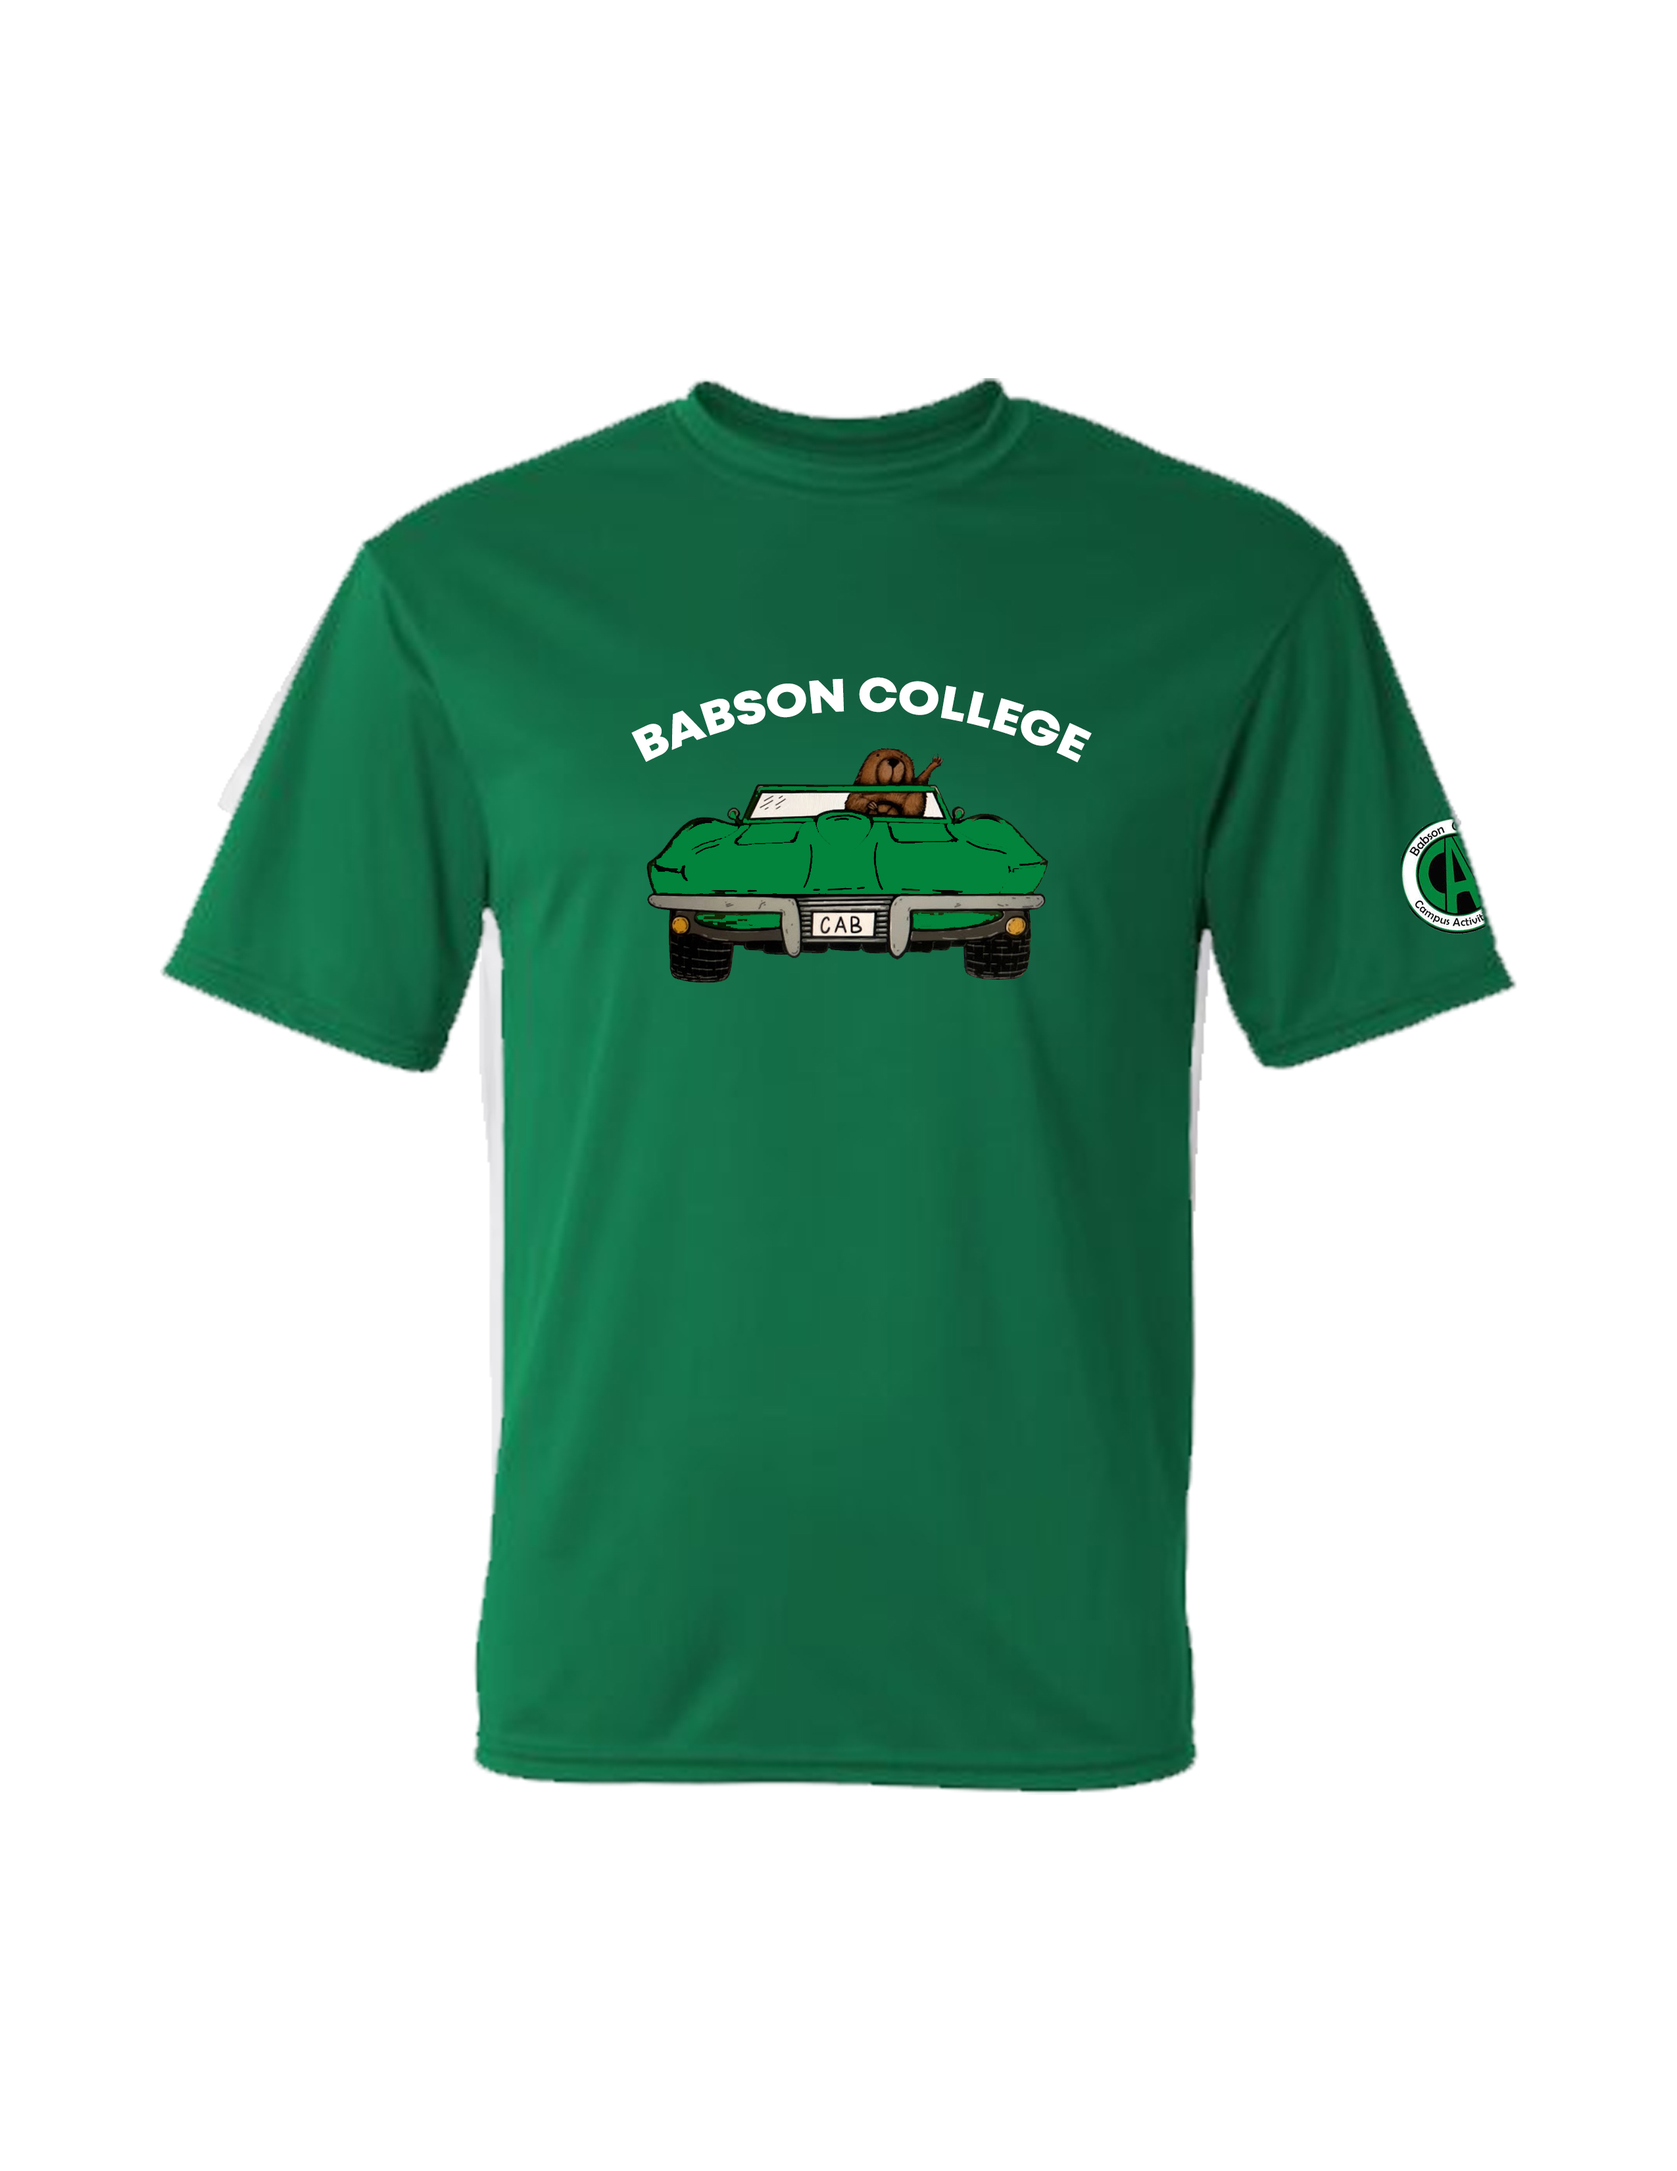
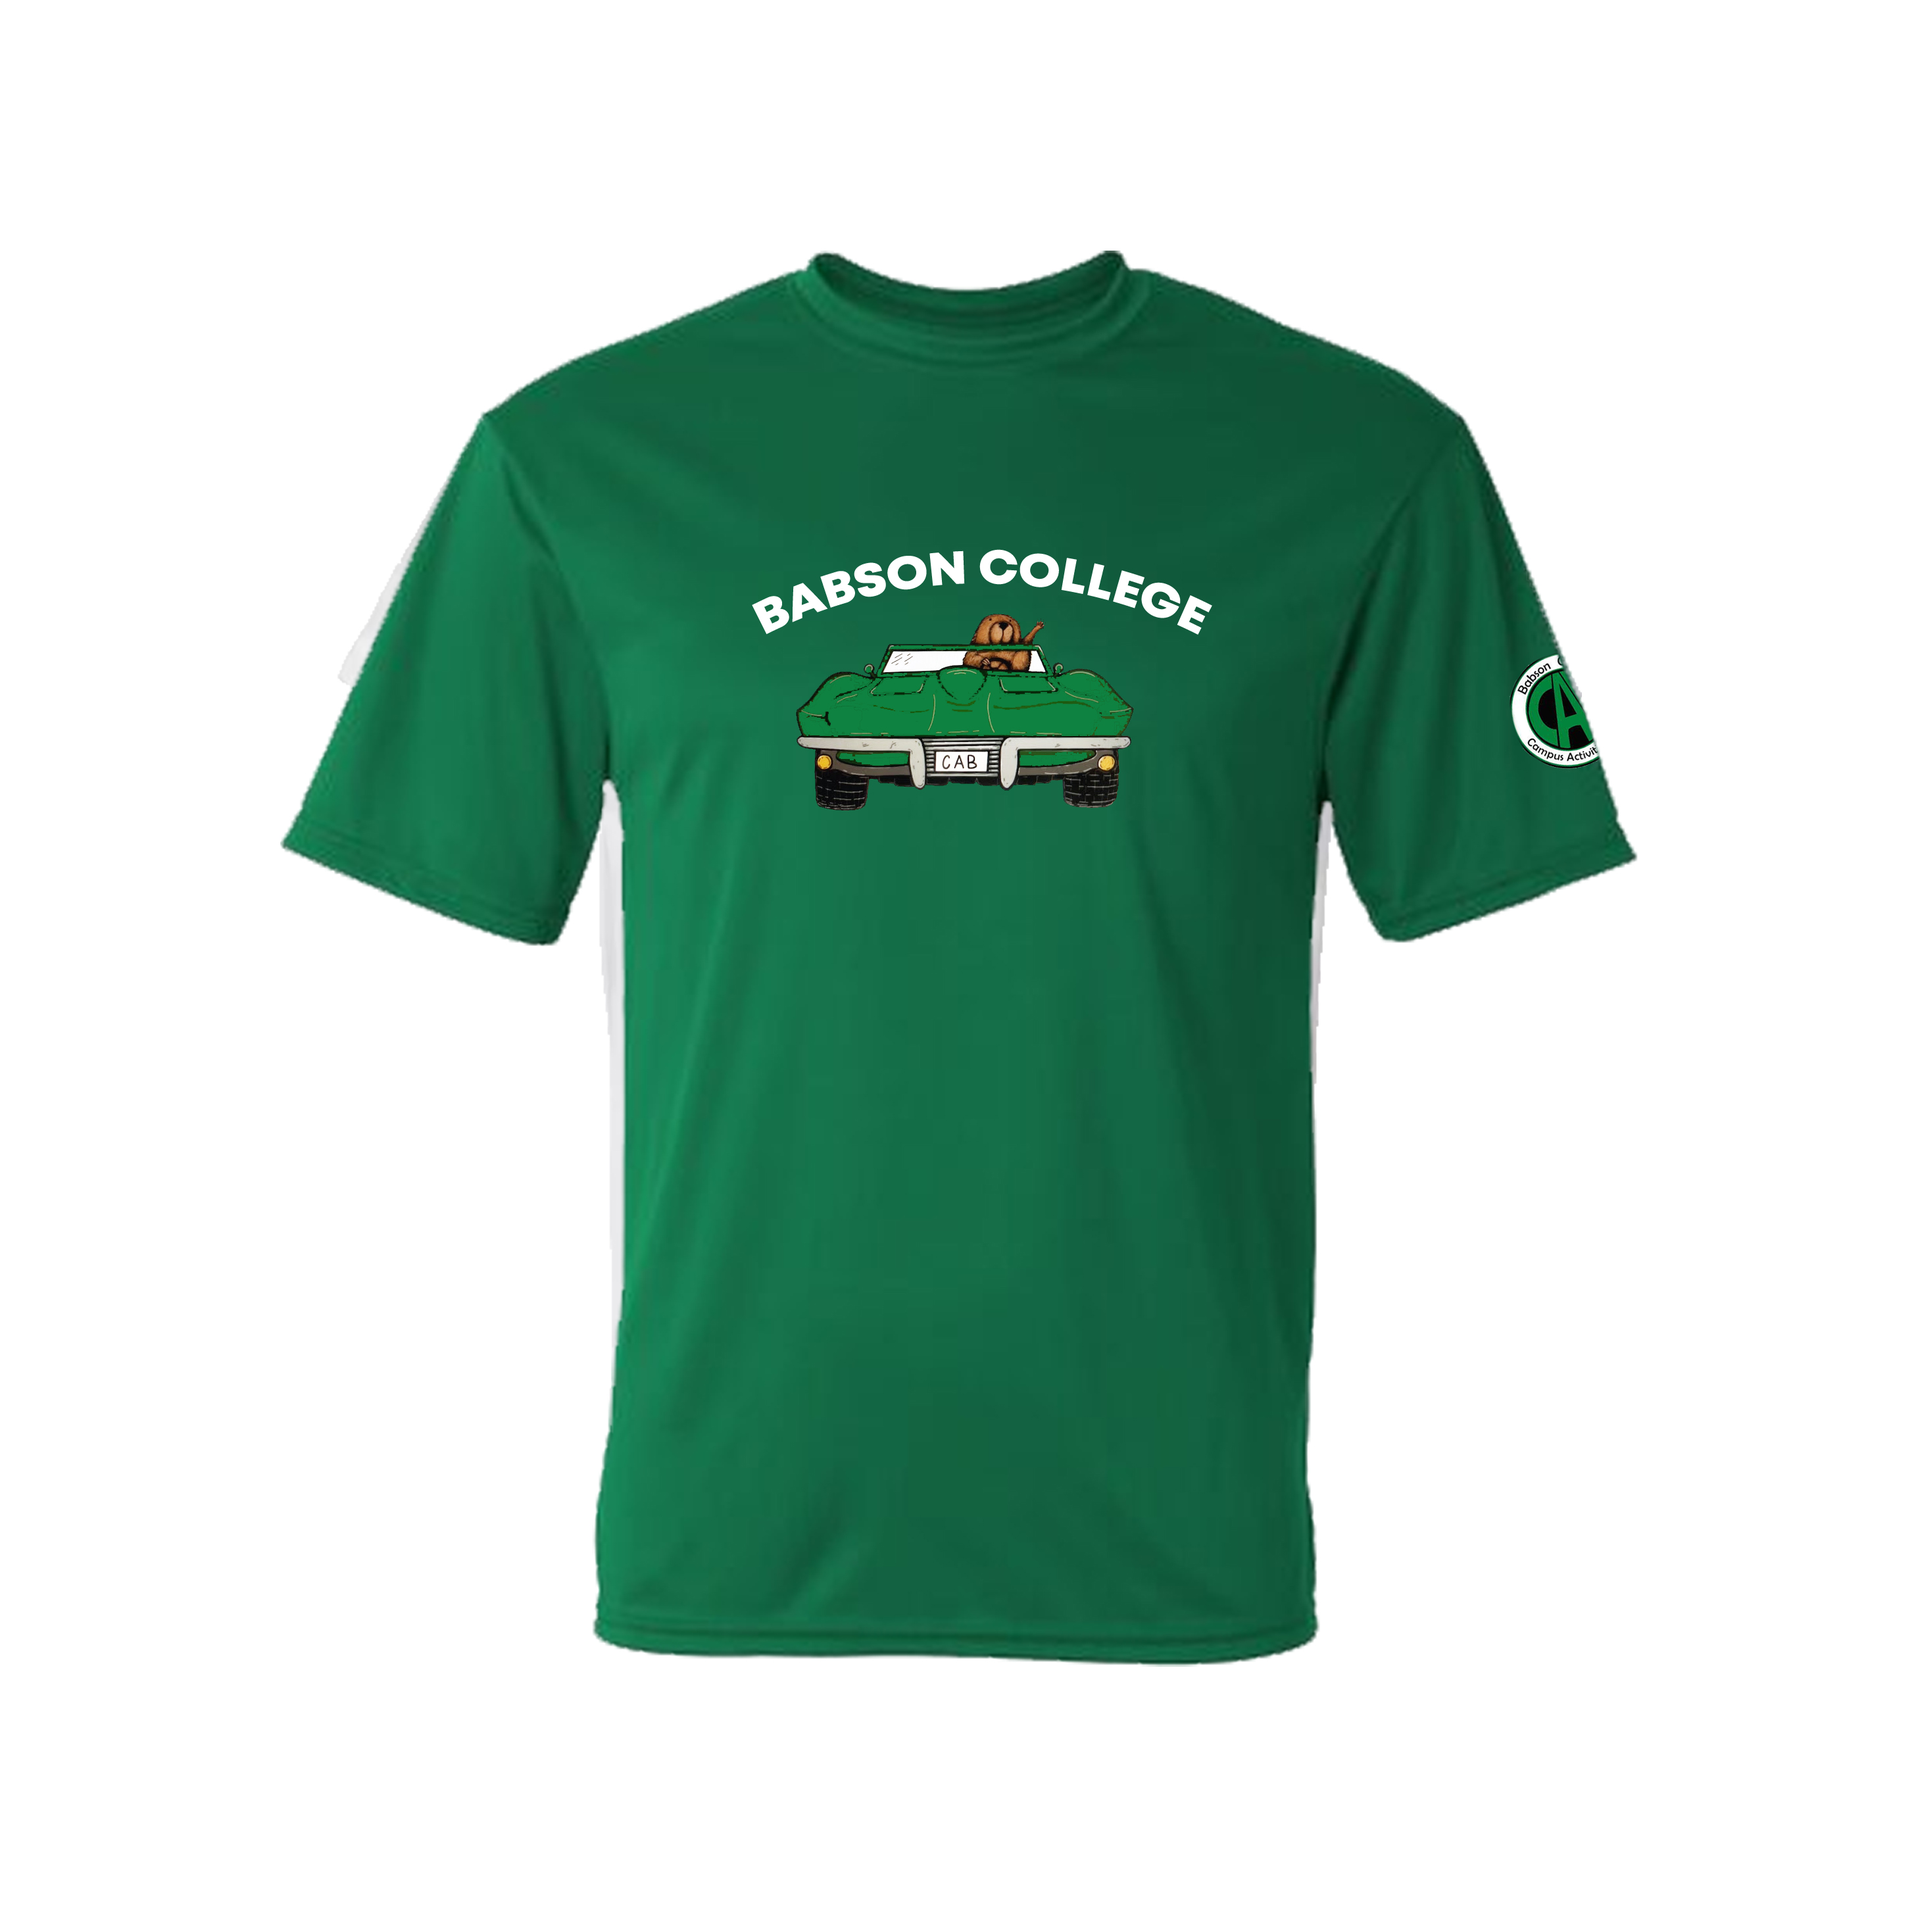
tshirt

Changed region(s): [[0.0929, 0.1248, 0.8984, 0.8738], [0.3718, 0.2809, 0.6506, 0.4681]]

diff --git a/store.html b/store.html
@@ -37,7 +37,7 @@ h1 {
 }
 
 .tshirt img {
-    width: 200px;
+    width: 180px;
     border: 2px solid #FFD700; /* Golden yellow */
     box-shadow: 0 0 10px rgba(0, 0, 0, 0.5);
 }
